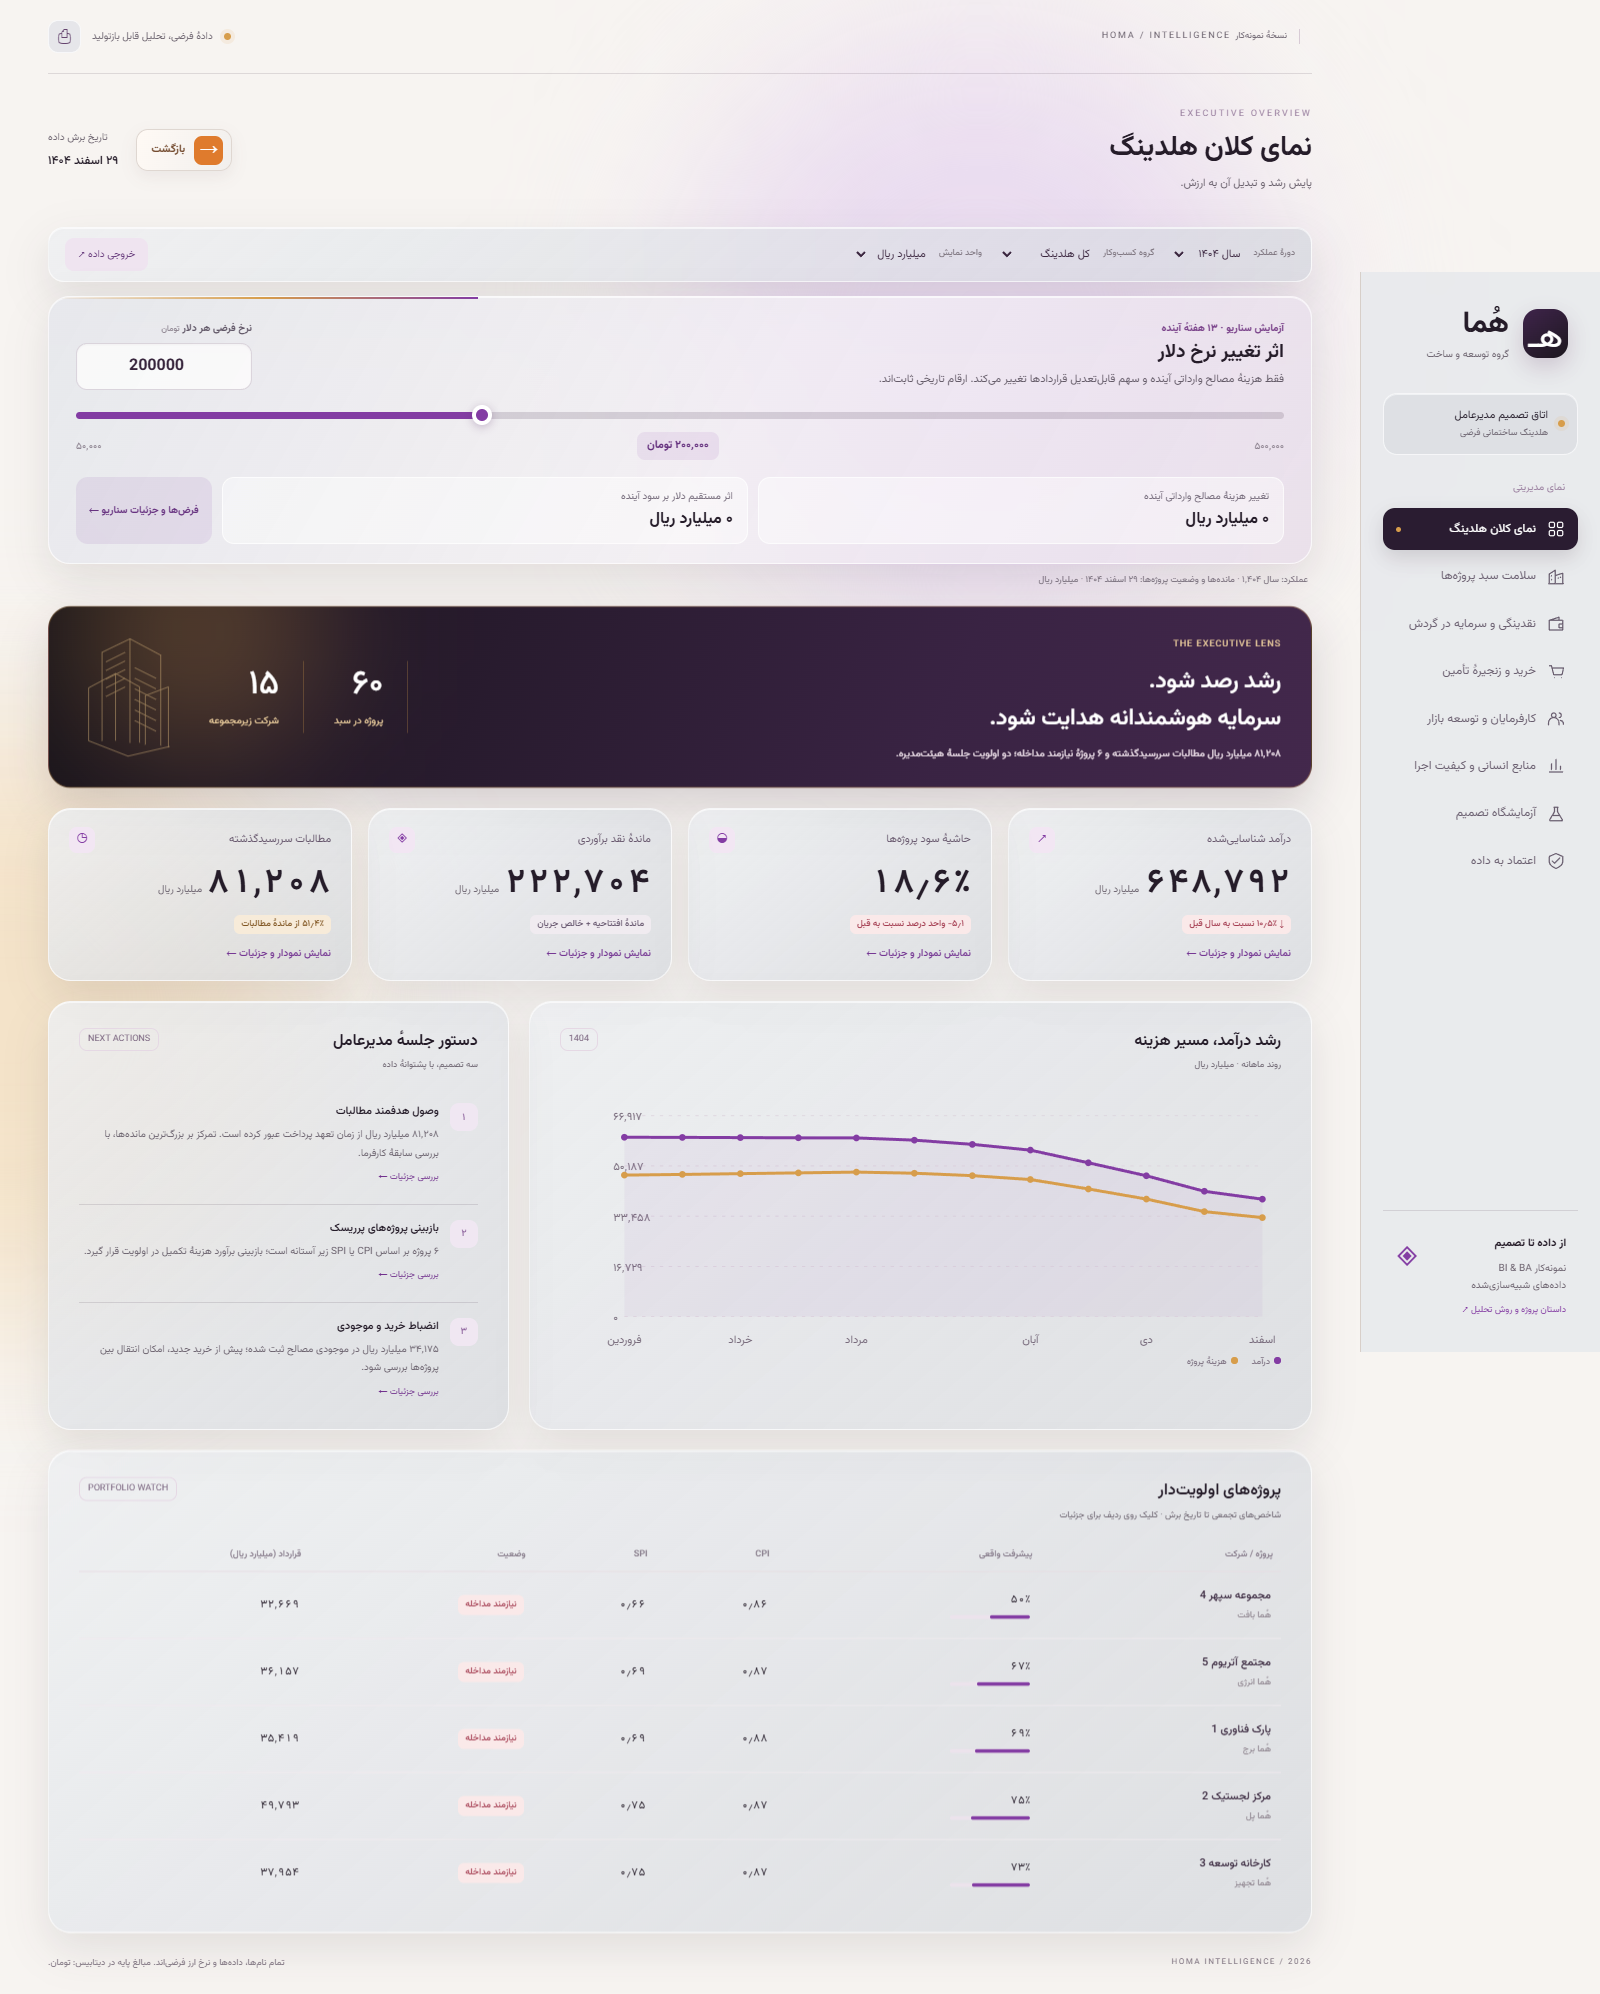
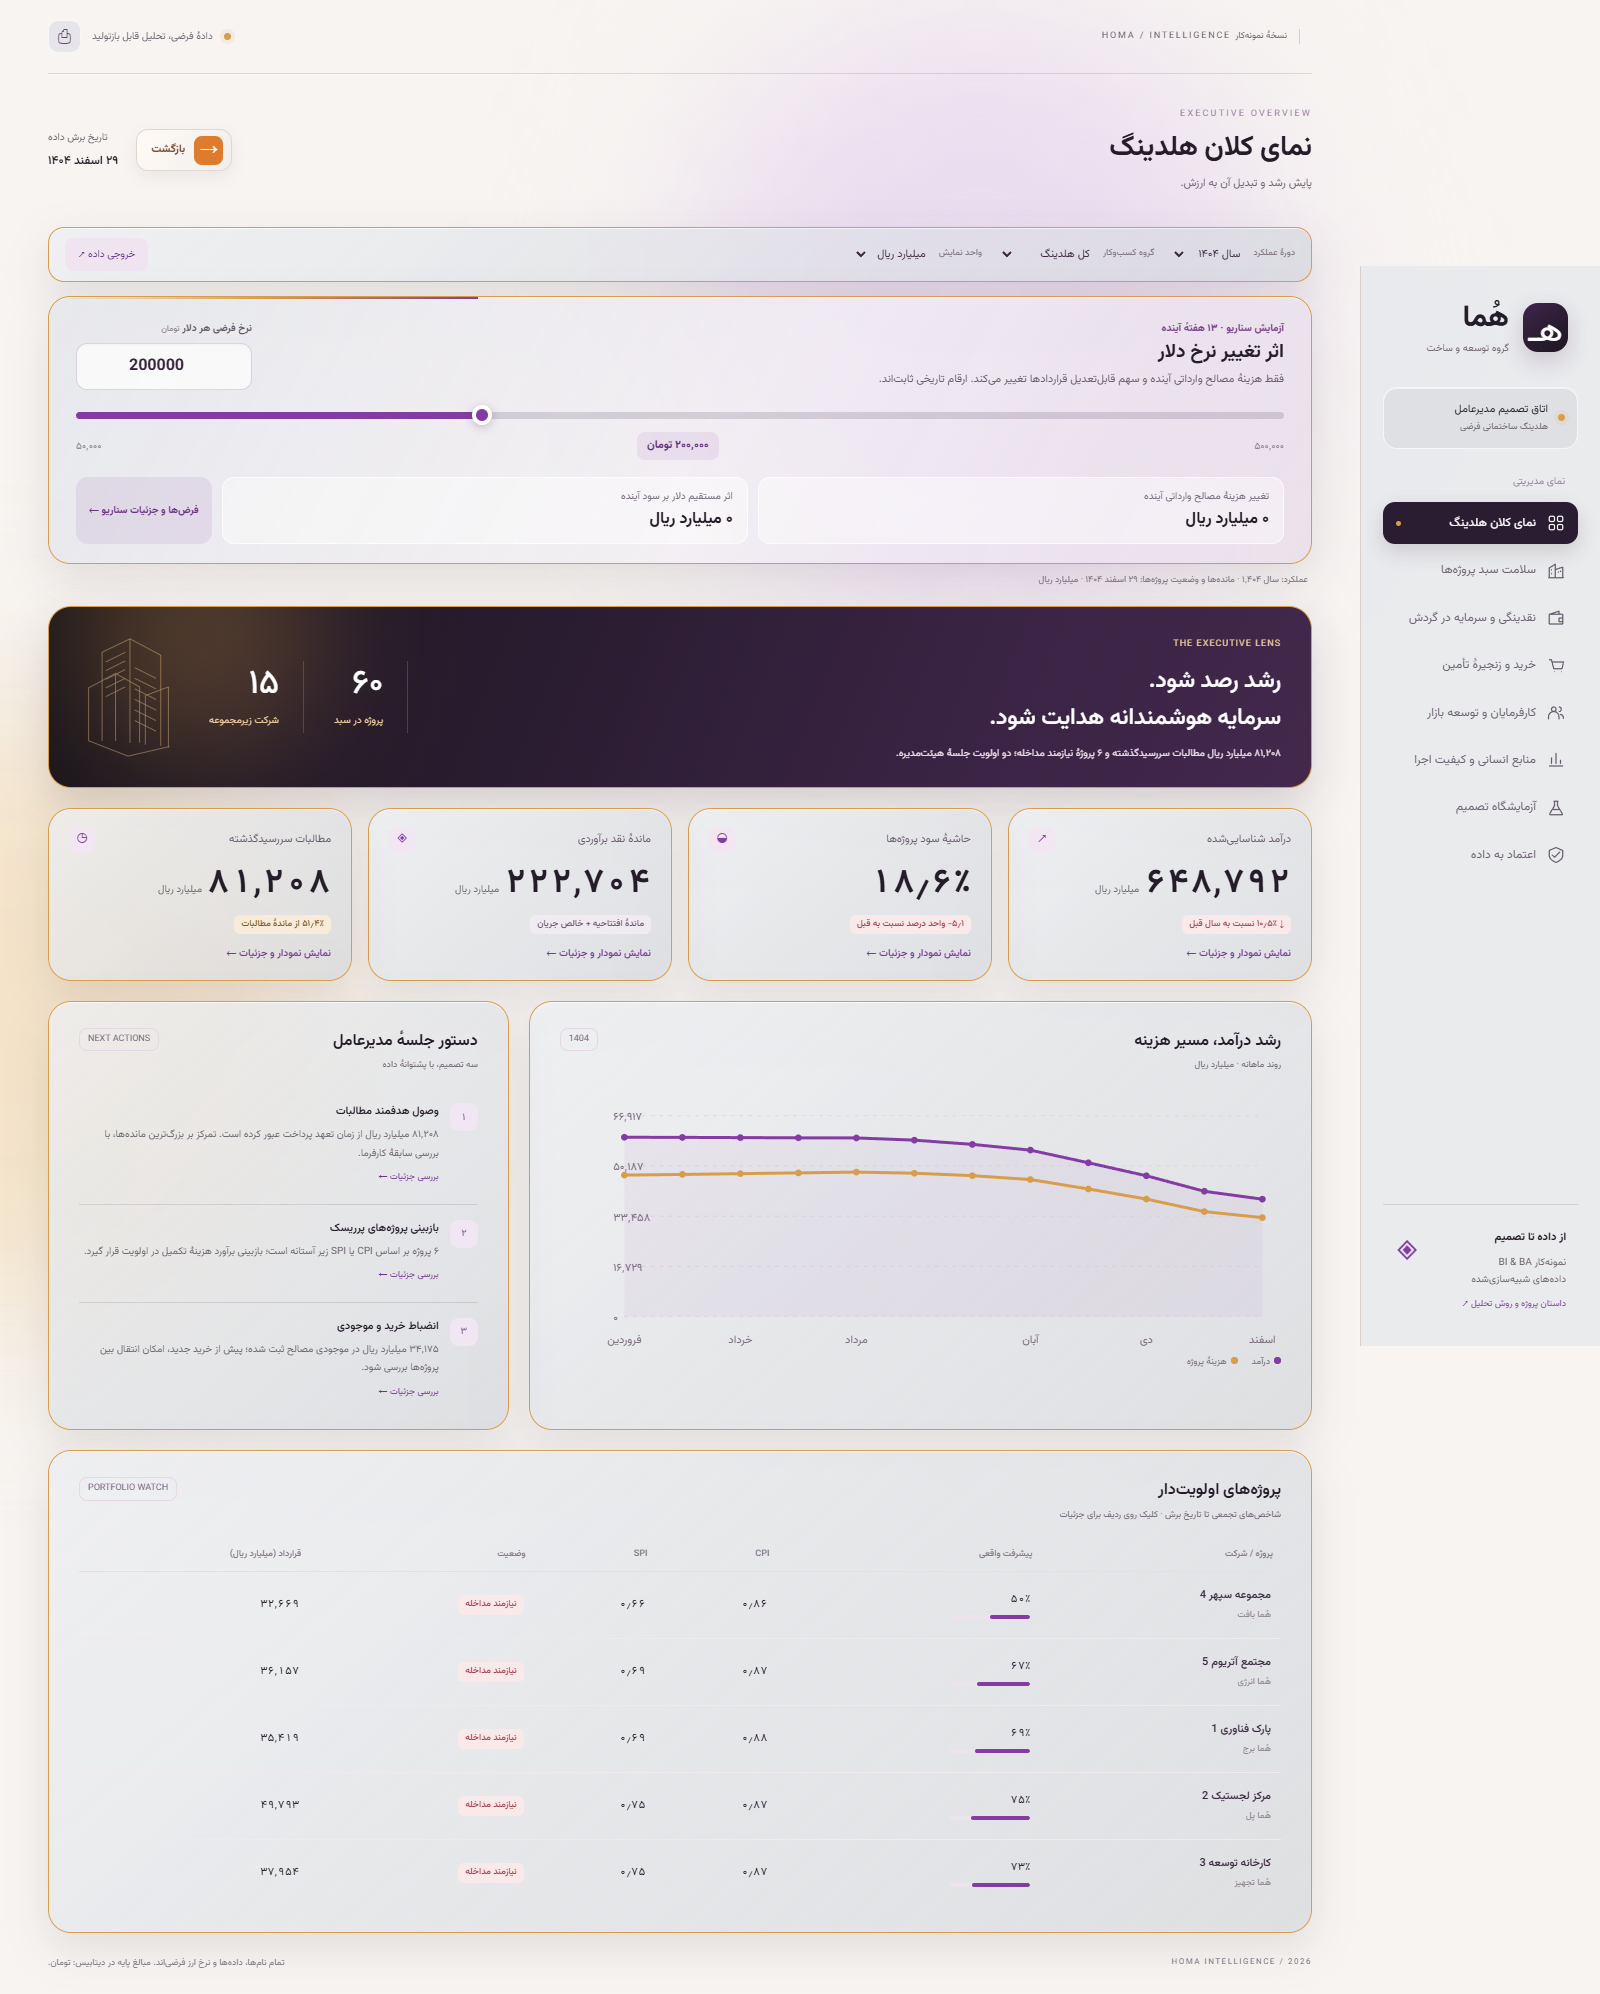
Use Lotus gold borders and keep mobile KPI units inline

diff --git a/lotus-theme.css b/lotus-theme.css
@@ -28,7 +28,7 @@ nav a.active:after { background: #d79d4b; }
 .icon-btn { background: rgba(224, 226, 231, .75); color: #65446f; border-color: rgba(255, 255, 255, .7); backdrop-filter: blur(16px); -webkit-backdrop-filter: blur(16px); }
 .glass {
   background: linear-gradient(140deg, rgba(237, 239, 242, .82), rgba(210, 214, 220, .69));
-  border-color: rgba(255, 255, 255, .68);
+  border-color: #d79d4b;
   box-shadow: var(--shadow), inset 0 1px 0 rgba(255, 255, 255, .64);
   backdrop-filter: blur(28px) saturate(130%);
   -webkit-backdrop-filter: blur(28px) saturate(130%);
@@ -64,12 +64,13 @@ nav a.active:after { background: #d79d4b; }
 .loading-state p { margin: 4px 0 0; color: var(--muted); font-size: 11px; line-height: 1.7; }
 .loading-state button { margin-right: auto; padding: 8px 12px; border: 1px solid rgba(131, 60, 163, .16); border-radius: 9px; background: rgba(131, 60, 163, .09); color: #65317e; font: inherit; font-size: 10px; cursor: pointer; }
 @keyframes load-spin { to { transform: rotate(360deg); } }
+.page-enter { animation: none; opacity: 1; transform: none; }
 .export-btn { background: #efe4f0; color: #603276; }
 .export-btn:hover { background: #e3d1e9; }
 .scope-note { color: #7c7280; }
 .hero {
   background: linear-gradient(112deg, #171319, #392343 70%, #43284c);
-  border-color: #d79d4b55;
+  border-color: #d79d4b;
   box-shadow: 0 18px 45px rgba(35, 19, 40, .16);
 }
 .hero:before { background: #d79d4b4d; }
@@ -121,7 +122,7 @@ tbody tr[data-project]:hover { background: #f2e9f577; }
 #toast, .tooltip { background: #2b1d32; }
 .footnote, footer { color: #807481; }
 .kpi-link { display: block; cursor: pointer; min-height: 158px; transition: transform .18s ease, box-shadow .18s ease, border-color .18s ease; }
-.kpi-link:hover, .kpi-link:focus-visible { transform: translateY(-3px); border-color: #b994c5; box-shadow: 0 18px 40px #4a28501f; }
+.kpi-link:hover, .kpi-link:focus-visible { transform: translateY(-3px); border-color: #df7b2d; box-shadow: 0 18px 40px #4a28501f; }
 .kpi-link:active { transform: translateY(0); }
 .kpi-open { display: block; margin-top: 11px; color: #763894; font-size: 10px; font-weight: 600; }
 .page-heading > div:first-child { min-width: 0; }
@@ -163,6 +164,8 @@ tbody tr[data-project]:hover { background: #f2e9f577; }
   .page-back { min-height: 40px; padding: 5px 7px 5px 10px; font-size: 10px; }
   .page-back-icon { width: 27px; height: 27px; }
   .kpi-link { min-height: 167px; }
+  .kpi-value { display: flex; align-items: baseline; gap: 3px; white-space: nowrap; font-size: 21px; line-height: 1.6; }
+  .kpi-value small { flex: 0 0 auto; margin: 0; white-space: nowrap; font-size: 9px; }
   .metric-lead { display: block; padding: 22px; }
   .metric-lead h2 { font-size: 20px; }
   .metric-lead p { font-size: 13px; }

diff --git a/index.html b/index.html
@@ -1,6 +1,6 @@
 <!doctype html>
 <html lang="fa" dir="rtl">
-<head><meta charset="utf-8"><meta name="viewport" content="width=device-width,initial-scale=1"><title>هُما | اتاق تصمیم مدیرعامل</title><link rel="stylesheet" href="style.css?v=894843d9fea6"><link rel="stylesheet" href="lotus-theme.css?v=607d80c48cef"></head>
+<head><meta charset="utf-8"><meta name="viewport" content="width=device-width,initial-scale=1"><title>هُما | اتاق تصمیم مدیرعامل</title><link rel="stylesheet" href="style.css?v=894843d9fea6"><link rel="stylesheet" href="lotus-theme.css?v=0ac6d4d0338f"></head>
 <body>
 <div class="ambient a1"></div><div class="ambient a2"></div>
 <aside class="sidebar">
